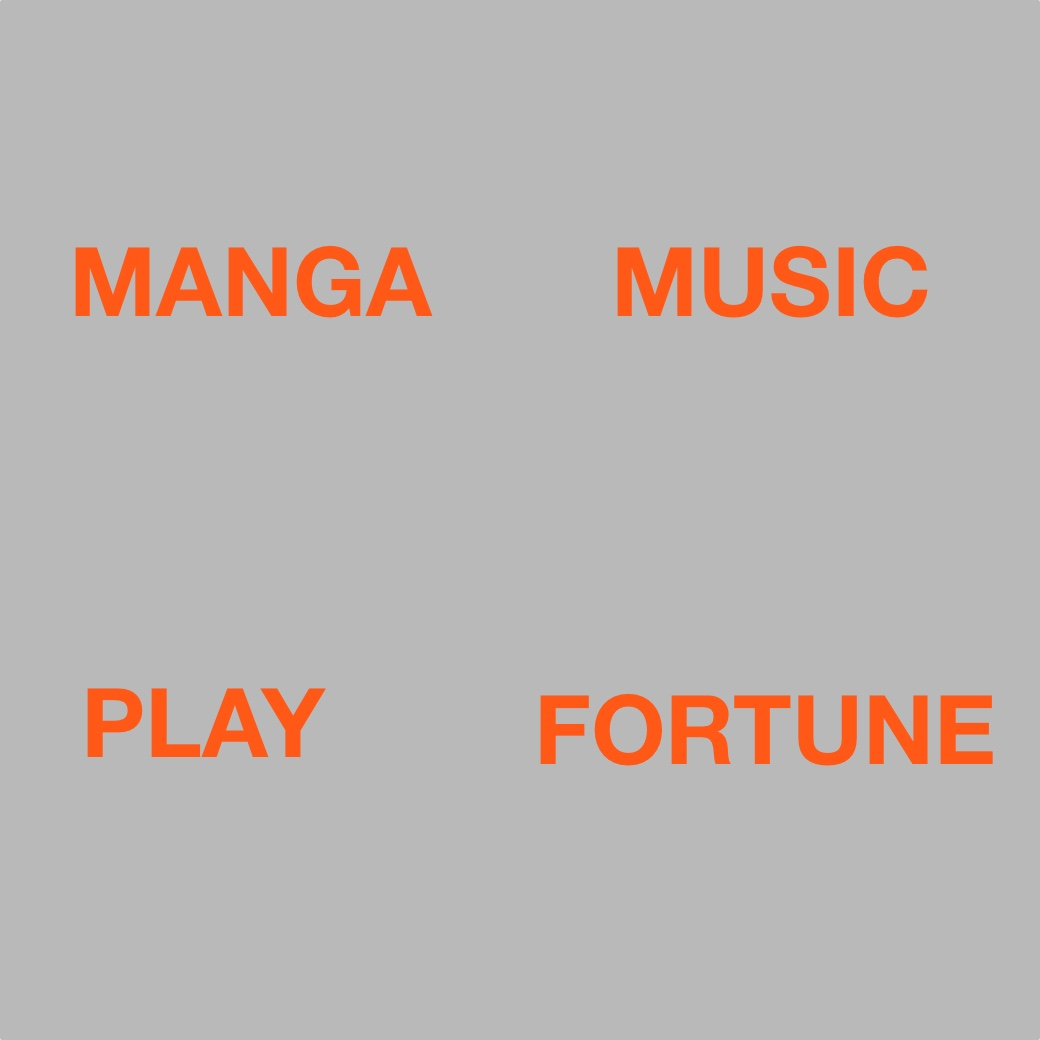
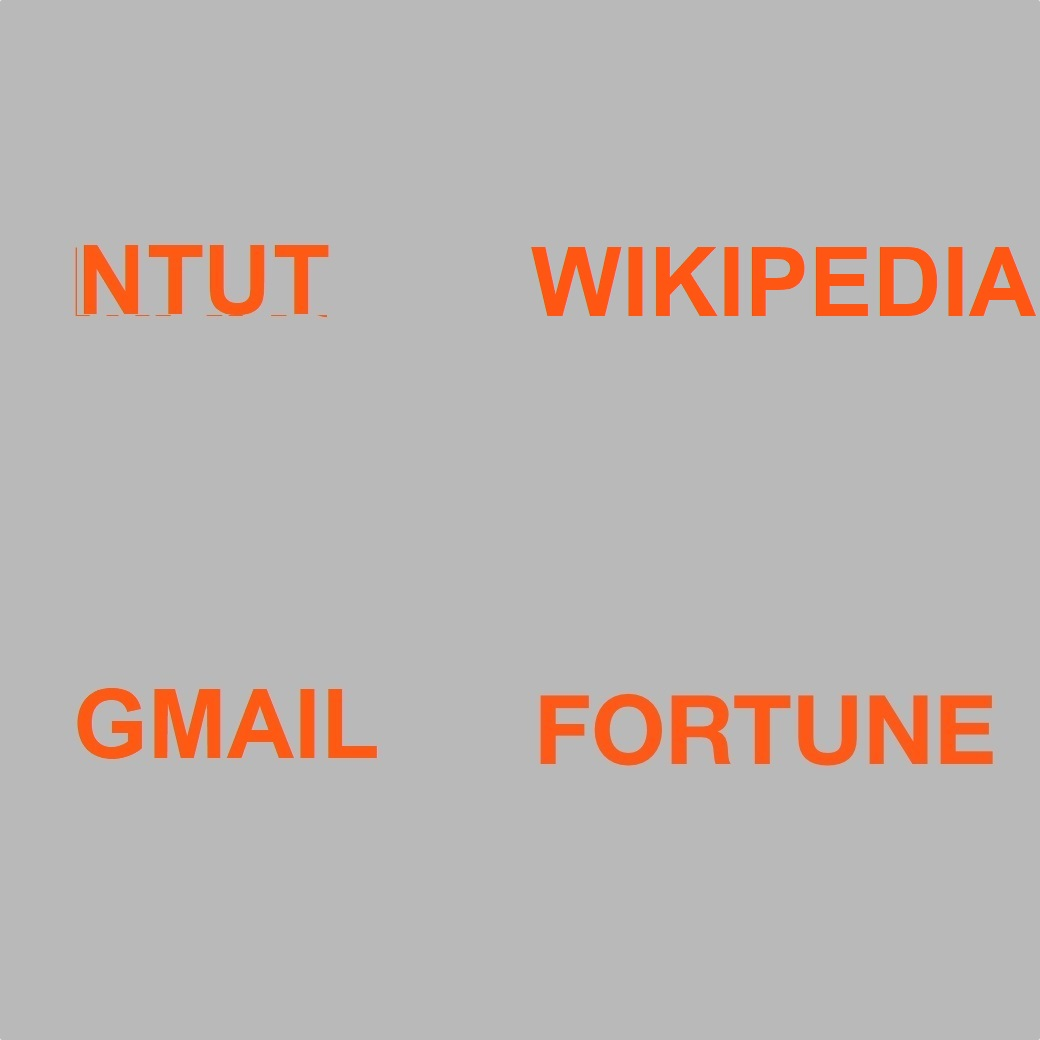
changed

Changed region(s): [[0.4923, 0.2154, 1.0, 0.3077], [0.0615, 0.2154, 0.4308, 0.3077], [0.0615, 0.6462, 0.3692, 0.7385]]

diff --git a/sample-spring-boot-kitchensink/src/main/java/com/example/bot/spring/KitchenSinkController.java b/sample-spring-boot-kitchensink/src/main/java/com/example/bot/spring/KitchenSinkController.java
@@ -240,6 +240,31 @@ public class KitchenSinkController {
 
         log.info("Got text message from {}: {}", replyToken, text);
         switch (text) {
+			 case "我是誰": {
+                String userId = event.getSource().getUserId();
+                if (userId != null) {
+                    lineMessagingClient
+                            .getProfile(userId)
+                            .whenComplete((profile, throwable) -> {
+                                if (throwable != null) {
+                                    this.replyText(replyToken, throwable.getMessage());
+                                    return;
+                                }
+
+                                this.reply(
+                                        replyToken,
+                                        Arrays.asList(new TextMessage(
+                                                              "你是" + profile.getDisplayName()),
+                                                      new TextMessage("你的狀態訊息為"
+                                                                      + profile.getStatusMessage()))
+                                );
+
+                            });
+                } else {
+                    this.replyText(replyToken, "Bot can't use profile API without user ID");
+                }
+                break;
+            }
             case "profile": {
                 String userId = event.getSource().getUserId();
                 if (userId != null) {
@@ -254,8 +279,8 @@ public class KitchenSinkController {
                                 this.reply(
                                         replyToken,
                                         Arrays.asList(new TextMessage(
-                                                              "Display name: " + profile.getDisplayName()),
-                                                      new TextMessage("Status message: "
+                                                              "You are " + profile.getDisplayName()),
+                                                      new TextMessage("Your status message: "
                                                                       + profile.getStatusMessage()))
                                 );
 
@@ -278,9 +303,19 @@ public class KitchenSinkController {
                 }
                 break;
             }
+			case "我覺得": {
+                ConfirmTemplate confirmTemplate = new ConfirmTemplate(
+                        "我想說這件事：",
+                        new MessageAction("可以", "好啊!"),
+                        new MessageAction("不行", "沒關係!")
+                );
+                TemplateMessage templateMessage = new TemplateMessage("Confirm alt text", confirmTemplate);
+                this.reply(replyToken, templateMessage);
+                break;
+            }
             case "confirm": {
                 ConfirmTemplate confirmTemplate = new ConfirmTemplate(
-                        "Do it?",
+                        "Are you sure?",
                         new MessageAction("Yes", "Yes!"),
                         new MessageAction("No", "No!")
                 );
@@ -288,43 +323,65 @@ public class KitchenSinkController {
                 this.reply(replyToken, templateMessage);
                 break;
             }
-            case "buttons": {
+			case "了解chatbot": {
                 String imageUrl = createUri("/static/buttons/1040.jpg");
                 ButtonsTemplate buttonsTemplate = new ButtonsTemplate(
                         imageUrl,
-                        "My button sample",
-                        "Hello, my button",
+                        "Y. Chang 機器人服務",
+                        "請選擇:",
                         Arrays.asList(
-                                new URIAction("Go to line.me",
-                                              "https://line.me"),
-                                new PostbackAction("Say hello1",
-                                                   "hello こんにちは"),
-                                new PostbackAction("言 hello2",
-                                                   "hello こんにちは",
-                                                   "hello こんにちは"),
-                                new MessageAction("Say message",
-                                                  "Rice=米")
+                                new URIAction("瀏覽NTUT網站",
+                                              "http://www.ntut.edu.tw"),
+                                new PostbackAction("和機器人私下打招呼",
+                                                   "聊天機器人，您好!"),
+                                new PostbackAction("詢問機器人問題",
+                                                   "聊天機器人是甚麼?",
+                                                   "聊天機器人（Chatterbot）是經由對話或文字進行交談的電腦程式。能夠模擬人類對話，通過圖靈測試。"),
+                                new MessageAction("聊天機器人使用案例",
+                                                  "目前，聊天機器人是虛擬助理（如Google個人助理）的一部分，可以與許多組織的應用程式，網站以及即時消息平台（Facebook Messenger）連接。")
+                        ));
+                TemplateMessage templateMessage = new TemplateMessage("Button alt text", buttonsTemplate);
+                this.reply(replyToken, templateMessage);
+                break;
+            }
+            case "buttons": {
+                String imageUrl = createUri("/static/buttons/10402.jpg");
+                ButtonsTemplate buttonsTemplate = new ButtonsTemplate(
+                        imageUrl,
+                        "Y. Chang Bot Service",
+                        "Please choose an option from the following menu:",
+                        Arrays.asList(
+                                new URIAction("Visit the official site of NTUT",
+                                              "http://www.ntut.edu.tw"),
+                                new PostbackAction("Say Hello chat bot! privately",
+                                                   "Hello chat bot!"),
+                                new PostbackAction("Ask a question",
+                                                   "What is a chatbot?",
+                                                   "A chatbot is a computer program which conducts a conversation via auditory or textual methods."),
+                                new MessageAction("Some use cases",
+                                                  "Today, chatbots are part of virtual assistants such as Google Assistant, and are accessed via many organizations' apps, websites, and on instant messaging platforms such as Facebook Messenger.")
                         ));
                 TemplateMessage templateMessage = new TemplateMessage("Button alt text", buttonsTemplate);
                 this.reply(replyToken, templateMessage);
                 break;
             }
             case "carousel": {
-                String imageUrl = createUri("/static/buttons/1040.jpg");
+                String imageUrla = createUri("/static/buttons/10402.jpg");
+				String imageUrlb = createUri("/static/buttons/10403.jpg");
                 CarouselTemplate carouselTemplate = new CarouselTemplate(
                         Arrays.asList(
-                                new CarouselColumn(imageUrl, "hoge", "fuga", Arrays.asList(
-                                        new URIAction("Go to line.me",
-                                                      "https://line.me"),
-                                        new PostbackAction("Say hello1",
-                                                           "hello こんにちは")
+                                new CarouselColumn(imageUrla, "Introduction", "Be familiar with the Bot!", Arrays.asList(
+                                        new URIAction("Visit the official site of NTUT",
+                                                      "http://www.ntut.edu.tw"),
+                                        new PostbackAction("Say Hello chat bot! privately",
+                                                           "Hello chat bot!")
                                 )),
-                                new CarouselColumn(imageUrl, "hoge", "fuga", Arrays.asList(
-                                        new PostbackAction("言 hello2",
-                                                           "hello こんにちは",
-                                                           "hello こんにちは"),
-                                        new MessageAction("Say message",
-                                                          "Rice=米")
+                                new CarouselColumn(imageUrlb, "Q&A", "Let's try~", Arrays.asList(
+                                        new PostbackAction("Ask a question",
+                                                           "What is a chatbot?",
+                                                           "A chatbot is a computer program which conducts a conversation via auditory or textual methods."),
+                                        new MessageAction("Some use cases",
+                                                          "Today, chatbots are part of virtual assistants such as Google Assistant, and are accessed via many organizations' apps, websites, and on instant messaging platforms such as Facebook Messenger.")
                                 ))
                         ));
                 TemplateMessage templateMessage = new TemplateMessage("Carousel alt text", carouselTemplate);
@@ -338,25 +395,25 @@ public class KitchenSinkController {
                         new ImagemapBaseSize(1040, 1040),
                         Arrays.asList(
                                 new URIImagemapAction(
-                                        "https://store.line.me/family/manga/en",
+                                        "http://www.ntut.edu.tw/bin/home.php",
                                         new ImagemapArea(
                                                 0, 0, 520, 520
                                         )
                                 ),
                                 new URIImagemapAction(
-                                        "https://store.line.me/family/music/en",
+                                        "https://en.wikipedia.org/wiki/Chatbot",
                                         new ImagemapArea(
                                                 520, 0, 520, 520
                                         )
                                 ),
                                 new URIImagemapAction(
-                                        "https://store.line.me/family/play/en",
+                                        "https://www.gmail.com",
                                         new ImagemapArea(
                                                 0, 520, 520, 520
                                         )
                                 ),
                                 new MessageImagemapAction(
-                                        "URANAI!",
+                                        "Guess!",
                                         new ImagemapArea(
                                                 520, 520, 520, 520
                                         )
